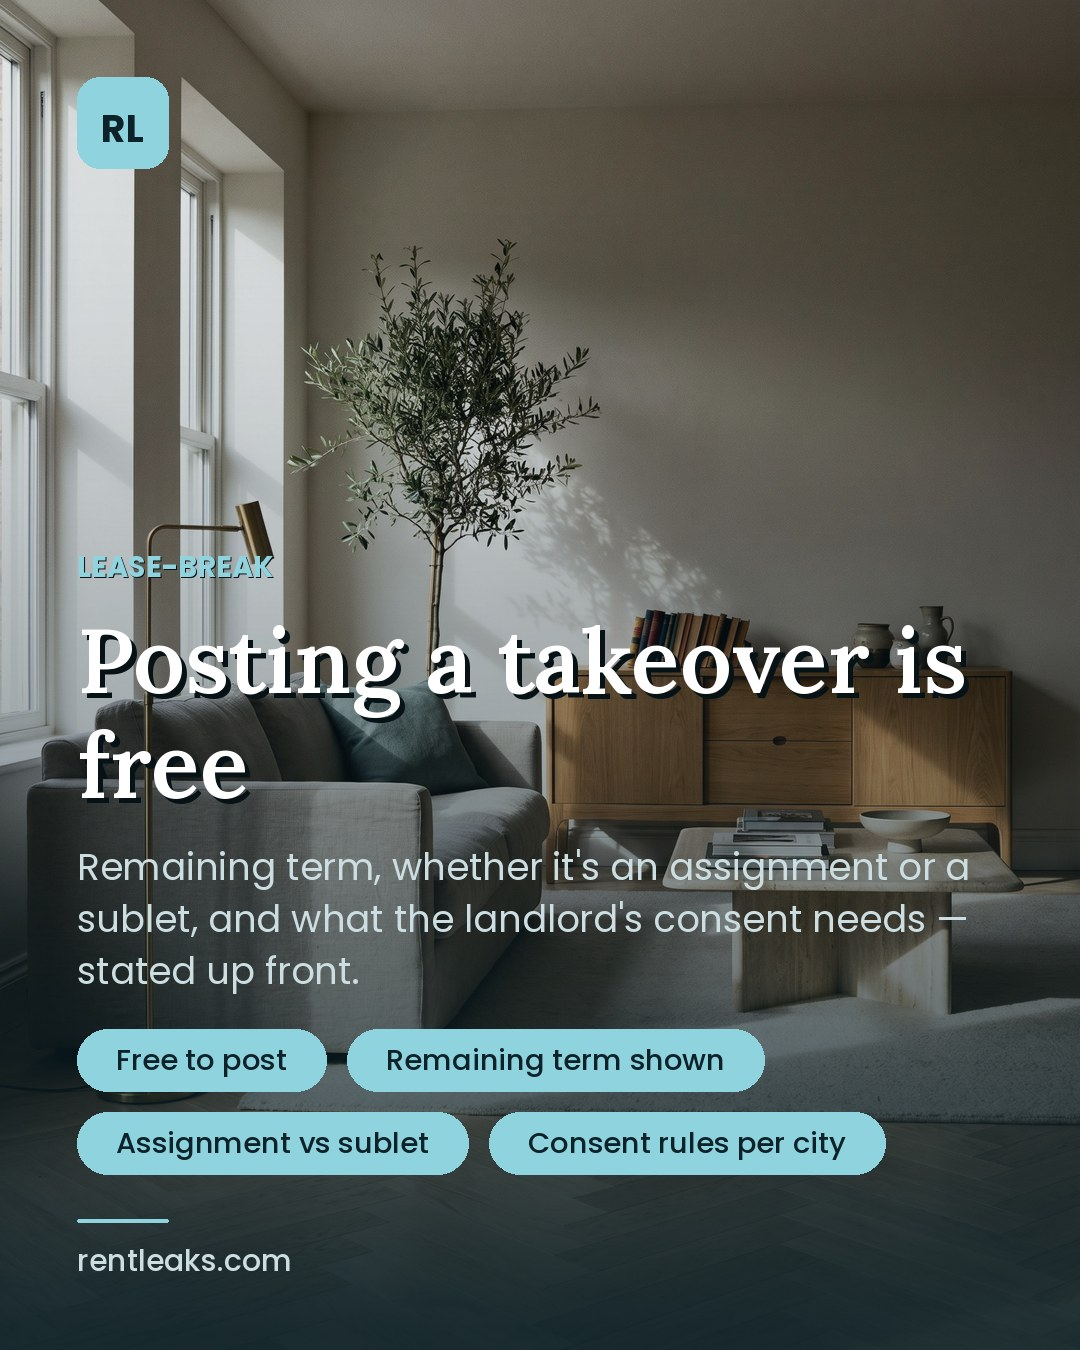
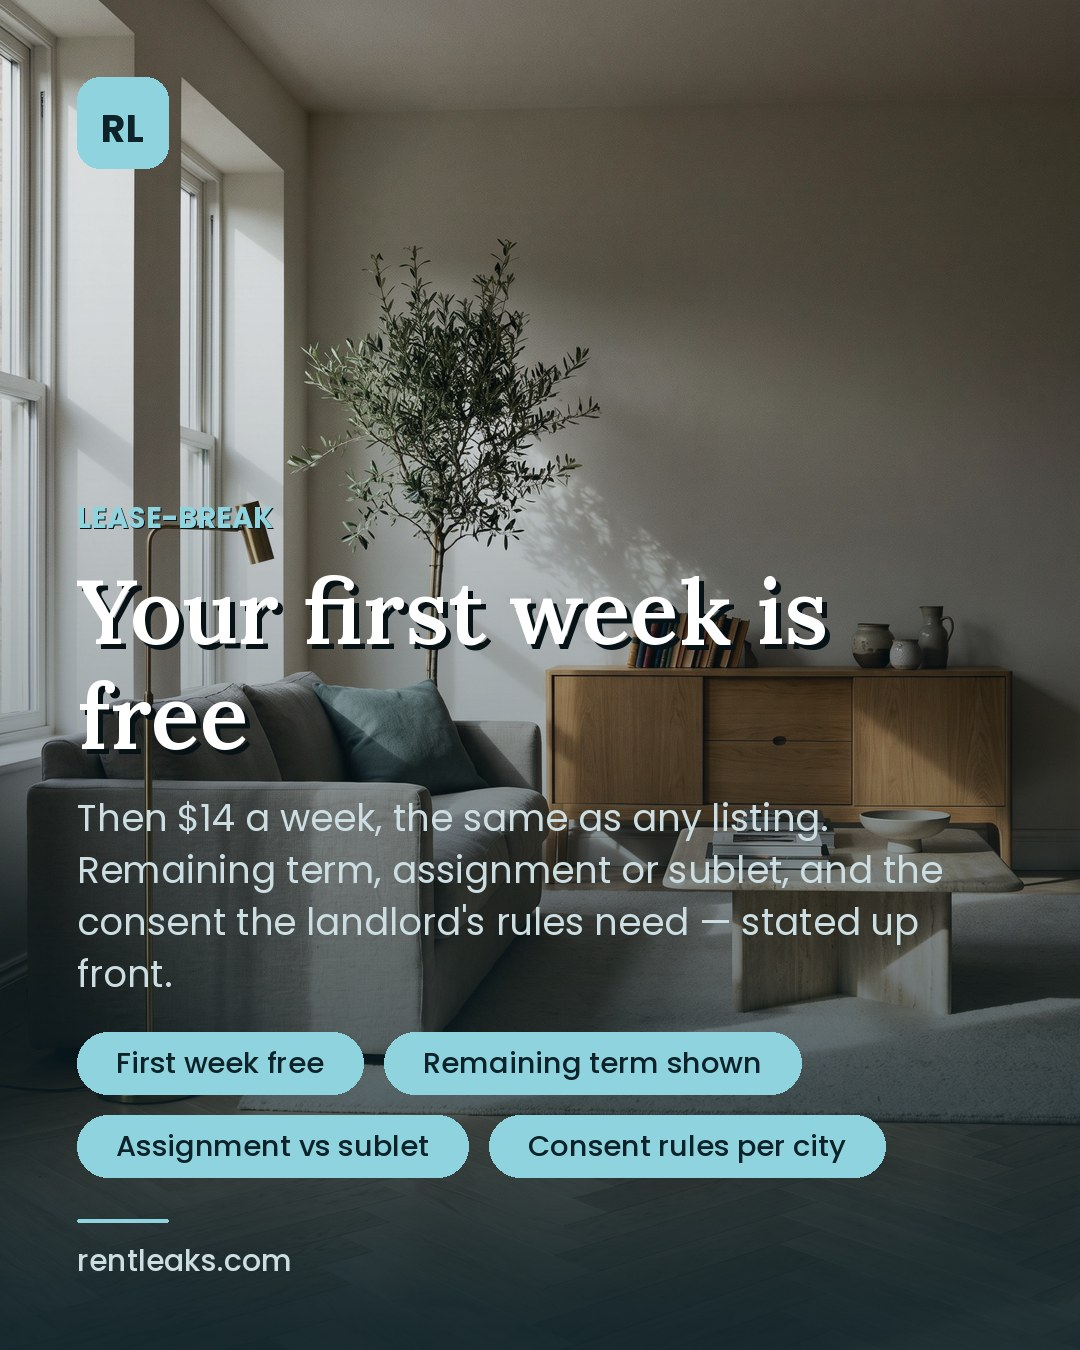
Instagram: say what we actually charge, and give the offer a post
Two posts in the launch feed were still promising the thing that stopped
being true when a lease-break became a listing like any other.

Post 19 was built entirely on it — the headline was "Posting a takeover is
free", and the card, the alt text and four chips all repeated it. It keeps
its subject, because the remaining-term and consent detail is the part
worth posting, but it now leads on what is true: the first week is free,
then $14 a week like anything else. Post 12 closed on the same claim in one
sentence and now closes on the offer instead.

And the promotion being advertised on Instagram and Facebook had no post of
its own, which is a strange way to run a promotion. There is a
twenty-first card now, host-facing, stating the seven days, what happens on
day eight, and that taking the listing down before then costs nothing.

The queue-shape test asserted exactly twenty posts and days 1..20 as
literals, so adding a post would have failed it — for the wrong reason,
since nothing was broken. It now derives the length and checks the days run
1..N with no gaps, which is the property that actually matters. The
seeder's batch name loses its "-20" for the same reason.

The Facebook page content and the card generator carried the claim too;
both updated.

Verified against the queue directly rather than through the suite: 21
entries, days 1..21, ids unique, every caption inside Instagram's 2200
(longest 745), image URLs well-formed, fair-housing scan clean. The web
[…]

Changed region(s): [[0.0611, 0.3733, 0.9167, 0.8711]]

diff --git a/web/scripts/seed-ig-queue.ts b/web/scripts/seed-ig-queue.ts
@@ -1,8 +1,8 @@
 /**
- * Loads the Instagram launch feed into the publishing queue — 20 posts, one a
+ * Loads the Instagram launch feed into the publishing queue — one post a
  * day, starting tomorrow.
  *
- *   npm run ig:queue                  # 20 posts, one a day at 15:00 UTC
+ *   npm run ig:queue                  # the whole feed, one a day at 15:00 UTC
  *   npm run ig:queue -- --hour 13     # a different hour
  *   npm run ig:queue -- --start 2026-10-01
  *   npm run ig:queue -- --dry         # print the plan, write nothing
@@ -20,7 +20,8 @@ import { readFileSync } from "node:fs";
 import { join } from "node:path";
 import { PrismaClient } from "@prisma/client";
 
-const BATCH = "ig-launch-20";
+// Not "-20": the batch is the launch feed, whatever length it grows to.
+const BATCH = "ig-launch";
 const QUEUE = join(process.cwd(), "..", "tools", "social", "ig-queue.json");
 
 type Entry = { day: number; id: string; image: string; link: string; caption: string };

diff --git a/web/tests/social.test.ts b/web/tests/social.test.ts
@@ -70,8 +70,14 @@ test("the publisher's limits are sane for a daily feed", () => {
 
 test("the Instagram launch queue is publishable as generated", () => {
   const entries: Entry[] = JSON.parse(readFileSync(QUEUE, "utf8"));
-  assert.equal(entries.length, 20, "twenty posts, one a day");
-  assert.deepEqual(entries.map((e) => e.day), Array.from({ length: 20 }, (_, i) => i + 1), "days run 1..20 in order");
+  assert.ok(entries.length >= 20, `at least twenty posts, got ${entries.length}`);
+  // Derived, not hard-coded: the feed grows, and a literal count here means a
+  // failing test every time a post is added rather than when something breaks.
+  assert.deepEqual(
+    entries.map((e) => e.day),
+    Array.from({ length: entries.length }, (_, i) => i + 1),
+    `days run 1..${entries.length} in order, with no gaps`,
+  );
   assert.equal(new Set(entries.map((e) => e.id)).size, entries.length, "ids are unique");
 
   for (const e of entries) {

diff --git a/tools/ig-promo-pass.py b/tools/ig-promo-pass.py
@@ -1,0 +1,114 @@
+#!/usr/bin/env python3
+"""
+Brings the Instagram feed in line with what the site now charges, and gives
+the free-first-week offer a post of its own.
+
+Three things were wrong or missing:
+
+  Post 19 (lease-break) was built entirely on "Posting a takeover is free."
+  That stopped being true when a lease-break became a listing like any other.
+  It is rewritten around what IS true now — the first week is free, on any
+  listing — keeping the lease-break subject, because the remaining-term and
+  consent detail is the part worth posting.
+
+  Post 12 (nyc-sublet) closed on "Lease-break posts are free on RentLeaks."
+  Same problem, one sentence.
+
+  The offer being announced on Instagram and Facebook had no post. A promo
+  you are paying to advertise should have a card that states it.
+
+Run from the repository root:
+
+    python3 tools/ig-promo-pass.py
+    python3 tools/build-ig-feed.py        # re-renders cards, queue and IG-FEED.md
+"""
+import collections
+import io
+import json
+import os
+import sys
+
+ROOT = os.path.dirname(os.path.dirname(os.path.abspath(__file__)))
+SPEC = os.path.join(ROOT, "tools", "social", "ig-posts.json")
+
+spec = json.loads(io.open(SPEC, encoding="utf-8").read(),
+                  object_pairs_hook=collections.OrderedDict)
+posts = spec["posts"]
+by_id = {p["id"]: p for p in posts}
+
+# ------------------------------------------------------------------ post 19
+lb = by_id.get("lease-break")
+if lb is None:
+    sys.exit("post 'lease-break' not found")
+
+lb["headline"] = "Your first week is free"
+lb["sub"] = (
+    "Then $14 a week, the same as any listing. Remaining term, assignment or "
+    "sublet, and the consent the landlord's rules need — stated up front."
+)
+lb["alt"] = (
+    "Card reading “Your first week is free” — lease-break listings "
+    "showing remaining term, assignment or sublet, and the consent rules that apply"
+)
+lb["chips"] = [
+    "First week free",
+    "Remaining term shown",
+    "Assignment vs sublet",
+    "Consent rules per city",
+]
+lb["caption"] = (
+    "Leaving a lease early is a bad week that doesn't need to become a bad year.\n\n"
+    "Your first week on RentLeaks is free — on a lease-break or anything else. "
+    "After that it's $14 a week, the same as every other listing, because a "
+    "takeover takes the same slot in search and the same checks as a room does.\n\n"
+    "What the listing shows: the remaining term, whether it's an assignment or a "
+    "sublet, and what consent the landlord's rules actually require in that city. "
+    "Those are the three things every serious replacement asks in the first "
+    "message, so they are answered before anyone has to.\n\n"
+    "Link in bio."
+)
+print("  post 'lease-break' rewritten")
+
+# ------------------------------------------------------------------ post 12
+sub = by_id.get("nyc-sublet")
+if sub is None:
+    sys.exit("post 'nyc-sublet' not found")
+old_tail = "Lease-break posts are free on RentLeaks. Link in bio."
+new_tail = "Your first week on RentLeaks is free, whatever you list. Link in bio."
+if old_tail not in sub["caption"]:
+    sys.exit("nyc-sublet: expected closing line not found")
+sub["caption"] = sub["caption"].replace(old_tail, new_tail, 1)
+print("  post 'nyc-sublet' closing line corrected")
+
+# ------------------------------------------------------------- the new post
+# Photo choice matters only in that neighbours should not repeat; the feed
+# builder cycles eight interiors and this sits at the end.
+if "first-week-free" not in by_id:
+    posts.append(collections.OrderedDict([
+        ("id", "first-week-free"),
+        ("theme", "night"),
+        ("photo", "studio-compact"),
+        ("kicker", "Listing on RentLeaks"),
+        ("headline", "Your first week is free"),
+        ("sub", "Every kind of listing. Billing starts on day eight, and taking it down before then costs nothing."),
+        ("alt", "Card reading “Your first week is free” — the first seven days of any RentLeaks listing cost nothing, billing starts on day eight"),
+        ("chips", ["7 days free", "Any listing type", "$14 a week after", "Renters never pay"]),
+        ("link", "https://rentleaks.com/list.html"),
+        ("caption",
+         "Seven days, on the house.\n\n"
+         "Post a room, a co-living unit, a furnished flat, an aparthotel stay or a "
+         "lease-break — the first week costs nothing. Billing starts on day eight, "
+         "and if you take the listing down before then you pay nothing at all.\n\n"
+         "After the week it's $14 a week or $60 a month, the same price whatever "
+         "you're listing. Renters are never charged, for anything, ever — that "
+         "hasn't changed and won't.\n\n"
+         "Link in bio."),
+    ]))
+    print("  post 'first-week-free' added")
+else:
+    print("  post 'first-week-free' already present")
+
+io.open(SPEC, "w", encoding="utf-8").write(
+    json.dumps(spec, ensure_ascii=False, indent=2) + "\n")
+print(f"\n{len(posts)} posts in tools/social/ig-posts.json")
+print("Now run: python3 tools/build-ig-feed.py")

diff --git a/tools/make-facebook-posts.py b/tools/make-facebook-posts.py
@@ -310,7 +310,7 @@ SECTIONS = [
      "Take over a remaining lease. See days left, assignment vs sublet.",
      ["Months left, on a Lease Clock",
       "Assignment or sublet, stated up front",
-      "Posting a lease-break is free"],
+      "Your first week is free"],
      "rentleaks.com/lease-break", None),
     ("07-cities", "public", "Cities · U.S., Canada, Europe", "79 cities. Same rules everywhere.",
      "The U.S., Canada, the UK, Ireland, France, Spain, the Netherlands, Switzerland, Germany and Italy.",

diff --git a/marketing/facebook/PAGE-CONTENT.md b/marketing/facebook/PAGE-CONTENT.md
@@ -46,7 +46,7 @@ Use A. B and C are alternatives.
 > • All-in rent: base rent plus the monthly extras we can see (utilities, wifi, cleaning), with one-time fees called out separately. No teaser prices.
 > • Search by your dates: put in move-in and move-out, and see homes that fit your window.
 > • 30-day minimum: housing, not hotel nights.
-> • Lease takeovers done properly: remaining term, a Lease Clock, and whether it's an assignment or a sublet. Posting a lease-break is free.
+> • Lease takeovers done properly: remaining term, a Lease Clock, and whether it's an assignment or a sublet. Your first week is free, on any listing.
 > • Fees checked against local rules: in New York, a broker hired by the landlord can't charge you the broker fee (FARE Act), and listings that break this are blocked.
 > • A person reviews every listing before it goes live.
 > • Stay DNA: a two-minute preference match scored in your browser. It isn't a credit check.
@@ -55,7 +55,7 @@ Use A. B and C are alternatives.
 >
 > **Your money stays with you.** RentLeaks never takes deposits, rent or application fees, and never asks for wire transfers, gift cards or crypto. Don't pay anyone before you have seen the home and read the lease. If someone asks you to pay RentLeaks, it's a scam: message us.
 >
-> **Hosts:** list a room, furnished units or a co-living building at rentleaks.com/list.html. Lease-break posts are free.
+> **Hosts:** list a room, furnished units or a co-living building at rentleaks.com/list.html. Your first week is free, whatever you list.
 >
 > Equal housing opportunity. Operated by Alternabiz LLC. Terms: rentleaks.com/terms.html · Privacy: rentleaks.com/privacy.html
 
@@ -66,7 +66,7 @@ Use A. B and C are alternatives.
 | Find me a home | Tell us your city, budget, move-in date and stay length. We reply with homes that fit. rentleaks.com/facebook.html?src=fb_page | Free |
 | Book a viewing | Pick a home and up to three times, in person or by live video. The host confirms. rentleaks.com/facebook.html?src=fb_page&tab=viewing | Free |
 | Request to book | Send your move-in and move-out dates for a home. The host accepts or declines. You never pay RentLeaks. rentleaks.com/facebook.html?src=fb_page&tab=stay | Free |
-| Post a lease-break | Leaving early? List the rest of your lease with the remaining term and takeover type. rentleaks.com/list.html | Free |
+| Post a lease-break | Leaving early? First week free. List the rest of your lease with the remaining term and takeover type. rentleaks.com/list.html | First week free |
 | List a room or furnished home | All-in price preview, fee checks for your city, and review before it goes live. rentleaks.com/professionals.html | "See plans" (don't type a figure until the price list is settled; see the note at the end) |
 | Co-living operators | Per-room inventory, multi-city buildings, bulk upload. rentleaks.com/professionals.html | "Contact us" |
 | Sponsored placement | Your live listing at the top of search results and between them, in your city. | "See plans" |
@@ -91,7 +91,7 @@ Post in this order. Each has its link. Add a photo or short video: the cover ima
 **Week 1: what it is**
 
 1. **Mon · Renters.** *Tired of "from $1,200" that turns into $1,650?* Every RentLeaks price is all-in: base rent plus the monthly extras we can see, with one-time fees shown separately. Look for the number you'll actually pay. → `https://rentleaks.com/rent.html?utm_source=facebook&utm_medium=organic&utm_campaign=wk1_allin`
-2. **Wed · Hosts.** *Leaving your lease early?* Post the rest of it on RentLeaks for free. Renters see the remaining months, the Lease Clock, and whether it's an assignment or a sublet. → `https://rentleaks.com/lease-break.html?utm_source=facebook&utm_medium=organic&utm_campaign=wk1_leasebreak`
+2. **Wed · Hosts.** *Leaving your lease early?* Post the rest of it on RentLeaks — your first week is free. Renters see the remaining months, the Lease Clock, and whether it's an assignment or a sublet. → `https://rentleaks.com/lease-break.html?utm_source=facebook&utm_medium=organic&utm_campaign=wk1_leasebreak`
 3. **Fri · Safety.** *The four steps that stop most rental scams:* 1) see it first, in person or on a live video call; 2) read the lease before any money moves; 3) pay traceably, to a named account (never wire, gift cards or crypto); 4) photograph the condition on move-in day. RentLeaks never takes deposits or rent.
 
 **Week 2: how to use it**
@@ -139,7 +139,7 @@ Post in this order. Each has its link. Add a photo or short video: the cover ima
 
 1. **I'm looking for a place** → "Tell us your city, budget and dates here and we'll match you: https://rentleaks.com/facebook.html?src=messenger"
 2. **How do I book a viewing?** → "Pick a home and up to three times, in person or by video: https://rentleaks.com/facebook.html?src=messenger&tab=viewing. It's free."
-3. **How do I list my place?** → "Start at https://rentleaks.com/list.html. Posting a lease-break is free. Plans for rooms, furnished homes and co-living: https://rentleaks.com/professionals.html"
+3. **How do I list my place?** → "Start at https://rentleaks.com/list.html. Your first week is free, on any listing. Plans for rooms, furnished homes and co-living: https://rentleaks.com/professionals.html"
 4. **Someone asked me to pay before a viewing** → "Don't pay. RentLeaks never takes deposits or rent, and nobody should ask for money before you've seen the home and read the lease. Send us the listing link and we'll look into it."
 
 **Saved replies**
@@ -155,7 +155,7 @@ Post in this order. Each has its link. Add a photo or short video: the cover ima
 1. **"The teaser vs the all-in."** A price tag grows as fees get added, then the RentLeaks all-in number.
 2. **"Two dates."** A screen recording: type move-in and move-out, and the results narrow.
 3. **"Four steps before you pay."** One step per card, from the safety post.
-4. **"Lease-break in 60 seconds."** Post the rest of your lease for free.
+4. **"Lease-break in 60 seconds."** Post the rest of your lease. First week free.
 5. **Story poll:** "Room or co-living?" with a link sticker to rentleaks.com/facebook.html?src=fb_page.
 6. **Story Q&A:** "Ask us anything about renting for 1–12 months."
 
@@ -363,7 +363,7 @@ For each section: a **short description** (Services entry, carousel card or Abou
 >
 > Confirm the paperwork with the landlord before any money moves.
 >
-> For tenants who need to leave: posting a lease-break is free. Empty months help no one.
+> For tenants who need to leave: the first week is free, like any listing. Empty months help no one.
 >
 > Browse takeovers: https://rentleaks.com/lease-break.html?utm_source=facebook&utm_medium=organic&utm_campaign=menu_leasebreak_post
 > Post yours free: https://rentleaks.com/list.html?utm_source=facebook&utm_medium=organic&utm_campaign=menu_leasebreak_post_list

diff --git a/marketing/social/IG-FEED.md b/marketing/social/IG-FEED.md
@@ -224,7 +224,7 @@ Breaking a New York lease is less hopeless than it feels.
 
 In a building with four or more units, you send a proper written sublet request. The landlord has 10 days to ask for more information and 30 days from that to decide — and if they don't answer, consent is deemed given. Assignment is the harder route: it needs written consent, which can be refused without a reason, but then your remedy is release from the lease on 30 days' notice.
 
-Lease-break posts are free on RentLeaks. Link in bio.
+Your first week on RentLeaks is free, whatever you list. Link in bio.
 
 General information, not legal advice.
 
@@ -355,12 +355,14 @@ General information, not legal advice.
 
 **Image:** `images/social/ig/19-lease-break.jpg`  ·  **Link:** https://rentleaks.com/lease-break.html
 
-**Alt text** (Advanced settings → Write alt text): Card reading “Posting a takeover is free” — lease-break listings showing remaining term and consent rules
+**Alt text** (Advanced settings → Write alt text): Card reading “Your first week is free” — lease-break listings showing remaining term, assignment or sublet, and the consent rules that apply
 
 ```
 Leaving a lease early is a bad week that doesn't need to become a bad year.
 
-Posting a lease-break on RentLeaks is free. The listing shows the remaining term, whether it's an assignment or a sublet, and what consent the landlord's rules actually require in that city — because those are the three things every serious replacement asks in the first message.
+Your first week on RentLeaks is free — on a lease-break or anything else. After that it's $14 a week, the same as every other listing, because a takeover takes the same slot in search and the same checks as a room does.
+
+What the listing shows: the remaining term, whether it's an assignment or a sublet, and what consent the landlord's rules actually require in that city. Those are the three things every serious replacement asks in the first message, so they are answered before anyone has to.
 
 Link in bio.
 
@@ -381,6 +383,24 @@ Every one is a renter who has already decided to hire a broker — with the area
 Nothing to join. No charge per lead. A broker-to-broker referral fee only after a lease is signed, invoiced to your brokerage. Licence checked with the state, 24 hours to answer a lead, ten spots on the page.
 
 Apply in two minutes — link in bio.
+
+#apartmenthunting #renterrights #nycapartments #nycrenting #furnishedapartment #coliving #midtermrental #relocation
+```
+
+## Day 21 · first-week-free
+
+**Image:** `images/social/ig/21-first-week-free.jpg`  ·  **Link:** https://rentleaks.com/list.html
+
+**Alt text** (Advanced settings → Write alt text): Card reading “Your first week is free” — the first seven days of any RentLeaks listing cost nothing, billing starts on day eight
+
+```
+Seven days, on the house.
+
+Post a room, a co-living unit, a furnished flat, an aparthotel stay or a lease-break — the first week costs nothing. Billing starts on day eight, and if you take the listing down before then you pay nothing at all.
+
+After the week it's $14 a week or $60 a month, the same price whatever you're listing. Renters are never charged, for anything, ever — that hasn't changed and won't.
+
+Link in bio.
 
 #apartmenthunting #renterrights #nycapartments #nycrenting #furnishedapartment #coliving #midtermrental #relocation
 ```
